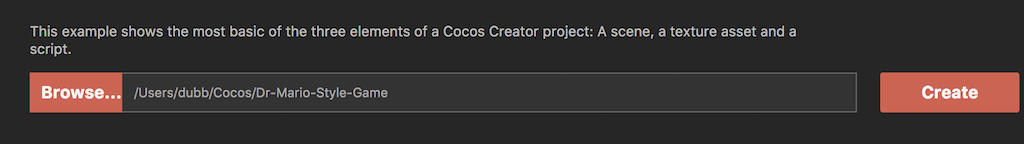
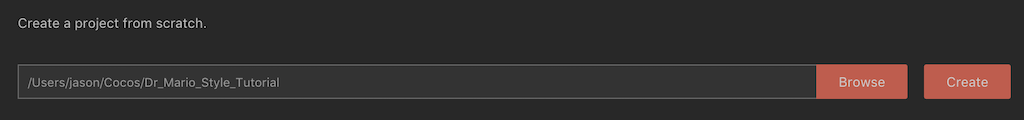
Refactor - project name cannot contain - on Windows, now using _

Changed region(s): [[0.0, 0.5, 1.0, 0.825], [0.0, 0.15, 0.7812, 0.275], [0.0312, 0.3, 0.0938, 0.4]]

diff --git a/en/02-starting-development/creating_a_cocos_creator_project.md b/en/02-starting-development/creating_a_cocos_creator_project.md
@@ -9,7 +9,7 @@ The [Cocos Creator Documentation](http://www.cocos2d-x.org/docs/creator/en/getti
 
     ![](img/new_projects_window.png)
 
-* Give your project the name __Dr-Mario-Style-Tutorial__ and choose a location on your filesystem that best suits you. Click __Create__.
+* Give your project the name __Dr_Mario_Style_Tutorial__ and choose a location on your filesystem that best suits you. Click __Create__.
 
     ![](img/new_path.png)
 
